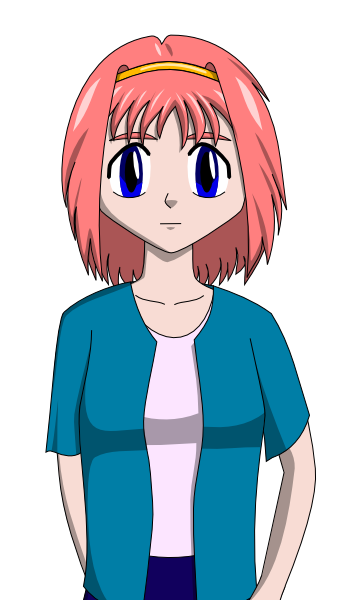
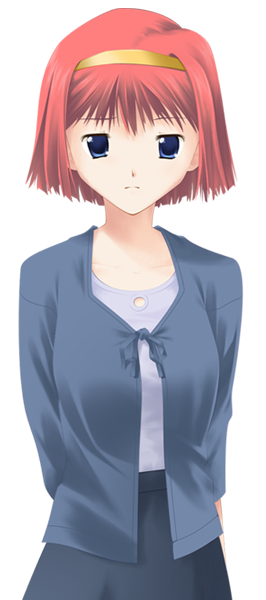
O3-Inspired changes. New Eileen art from Piroshki.

diff --git a/renpy/loader.py b/renpy/loader.py
@@ -215,7 +215,10 @@ class RenpyImporter(object):
         mod.__file__ = filename
         mod.__loader__ = self
         mod.__path__ = [ ]
-        exec load(filename).read() in mod.__dict__
+
+        source = load(filename).read()
+        source = source.replace("\r", "")
+        exec source in mod.__dict__
         return mod
 
     def get_data(self, filename):
